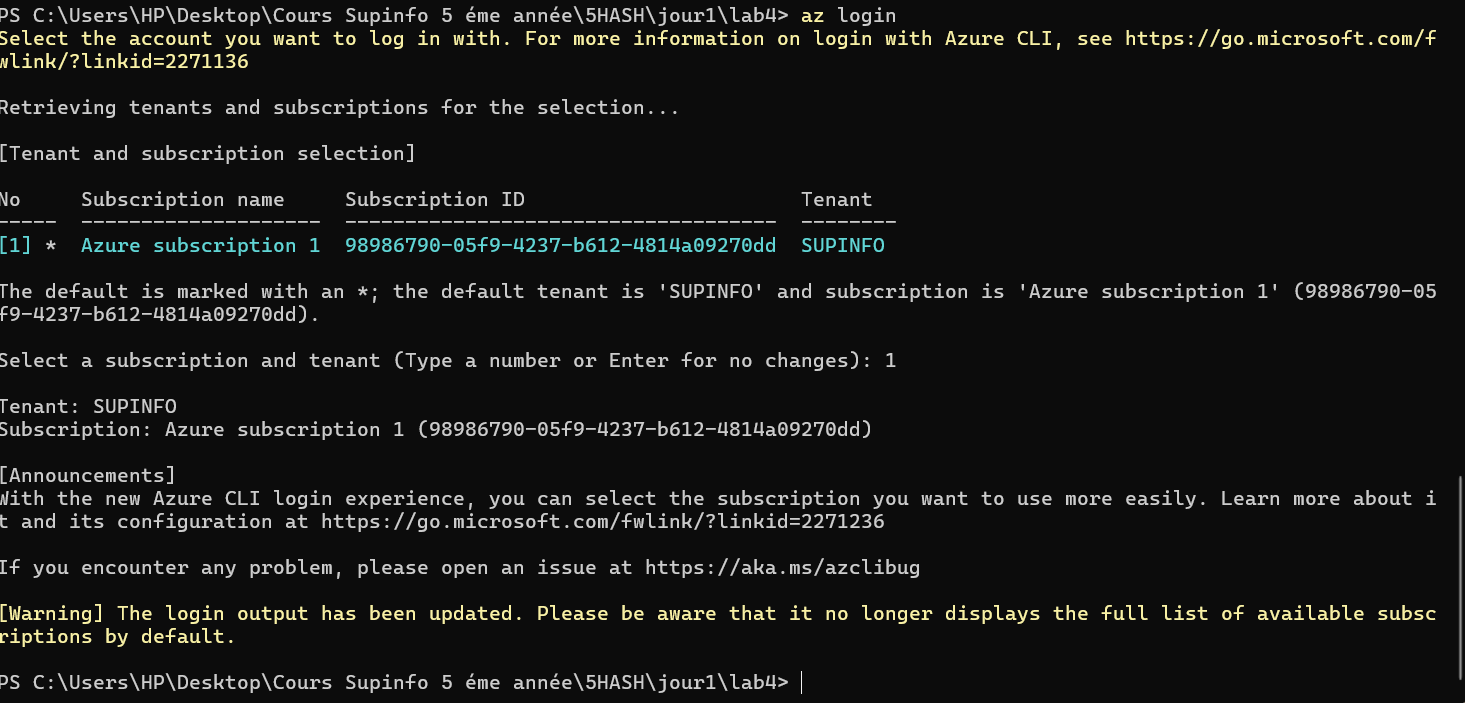
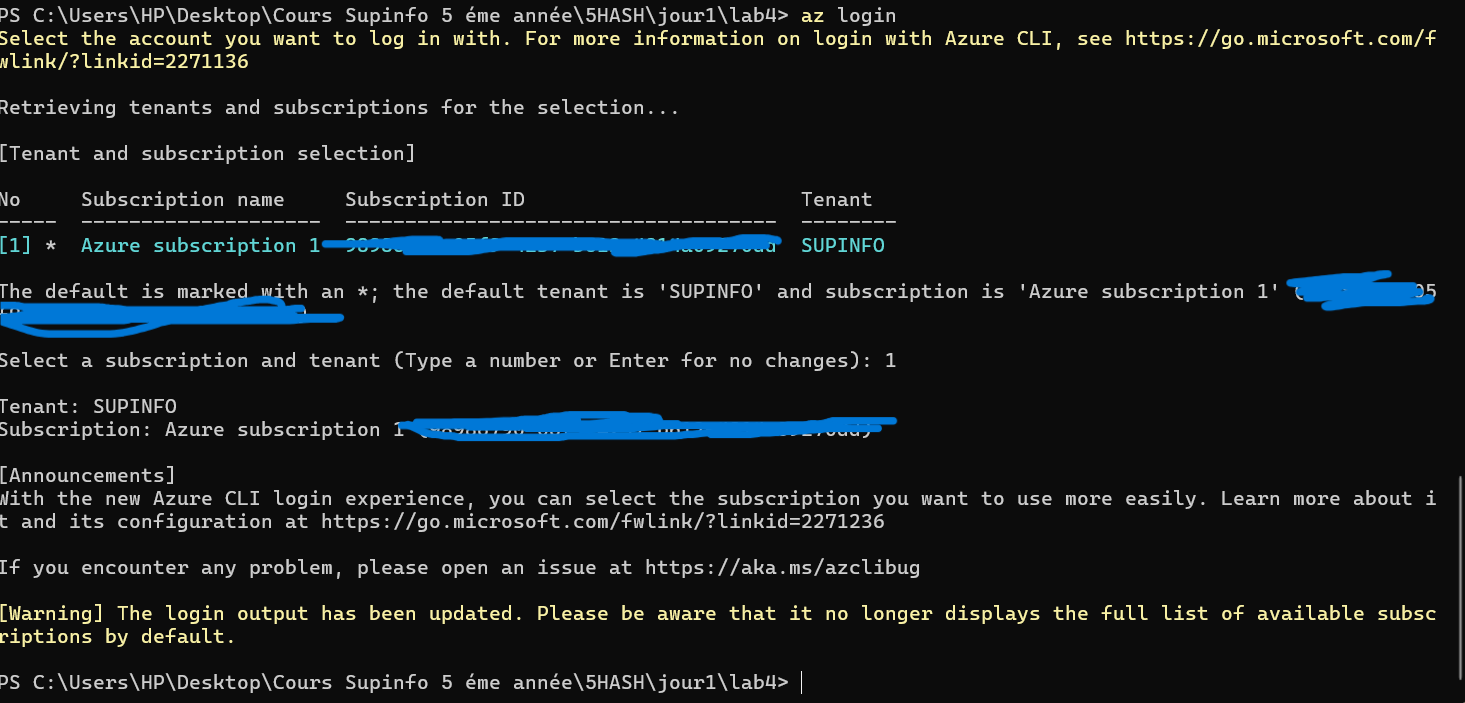
change blur image

diff --git a/README.md b/README.md
@@ -79,7 +79,7 @@ Each environment has its own `terraform.tfvars` file located in `environments/{d
 > - `environments/prod/terraform.tfvars` - Production environment settings
 
 
-## 🔗 Application Access & Credentials
+## 🔗 Application Access Example & Credentials
 
 ### 🧪 Development Environment
 - **Application URL**: `https://prestashop-dev-XXXXXXXX.region.azurecontainerapps.io`
